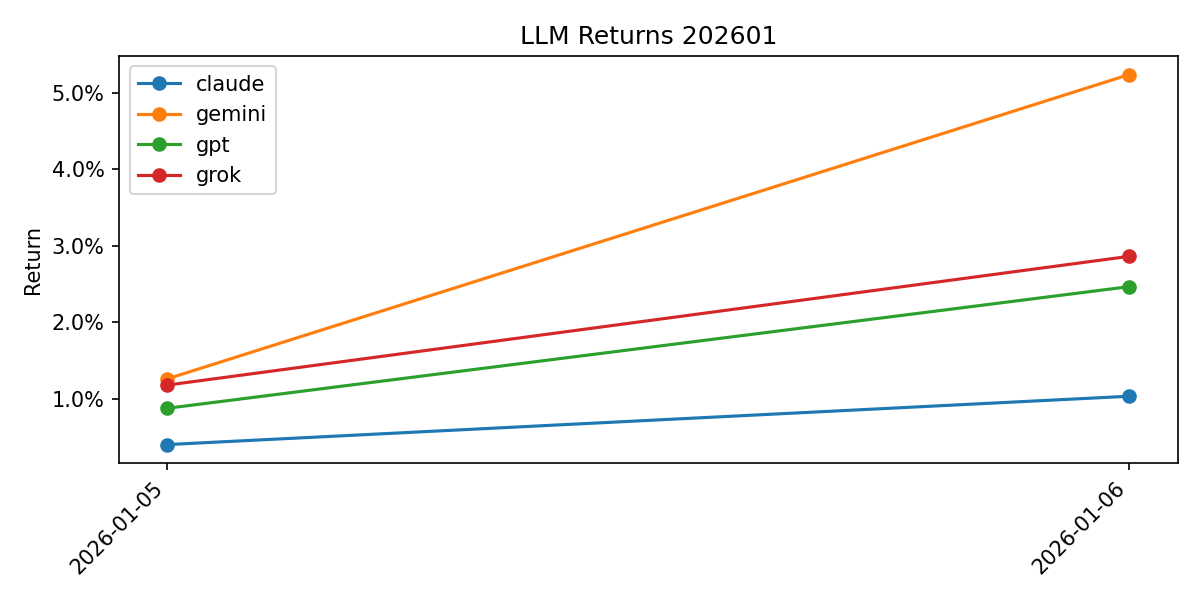
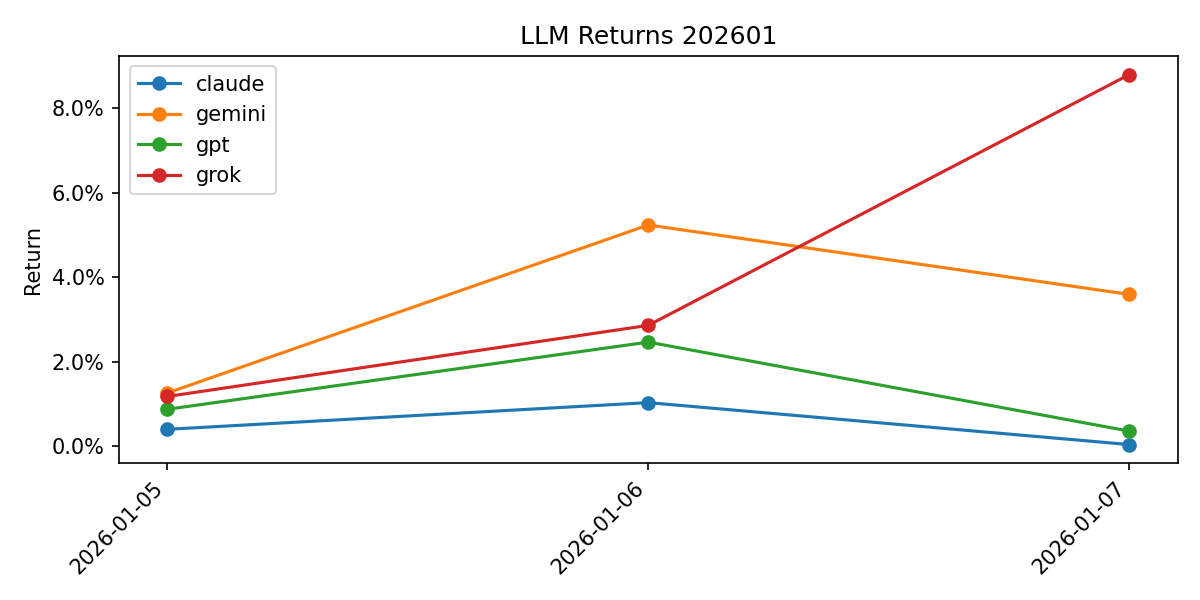
chore: add daily results 2026-01-07

diff --git a/data/result/result-2026-01-07.md b/data/result/result-2026-01-07.md
@@ -1,0 +1,25 @@
+# Daily Result 2026-01-07
+
+## Models
+
+| LLM | Model |
+| --- | --- |
+| claude | claude-sonnet-4-5-20250929 |
+| gemini | gemini-3-pro-preview |
+| gpt | gpt-5.1 |
+| grok | grok-4-1-fast-reasoning |
+
+| LLM | Symbol | Buy(Open) | Close(today) | Return |
+| --- | --- | --- | --- | --- |
+| claude | 8316.T (SUMITOMO MITSUI FINANCIAL GROUP) | 5160.00 | 5212.00 | 1.01% |
+|  | 6976.T (TAIYO YUDEN CO LTD) | 3660.00 | 3626.00 | -0.93% |
+|  | Avg |  |  | 0.04% |
+| gemini | 8473.T (SBI HOLDINGS INC) | 3410.00 | 3519.00 | 3.20% |
+|  | 8306.T (MITSUBISHI UFJ FINANCIAL GROUP) | 2518.50 | 2619.00 | 3.99% |
+|  | Avg |  |  | 3.59% |
+| gpt | 9984.T (SOFTBANK GROUP CORP) | 4520.00 | 4653.00 | 2.94% |
+|  | 7203.T (TOYOTA MOTOR CORP) | 3411.00 | 3335.00 | -2.23% |
+|  | Avg |  |  | 0.36% |
+| grok | 8035.T (TOKYO ELECTRON) | 36080.00 | 38170.00 | 5.79% |
+|  | 285A.T (KIOXIA HOLDINGS CORPORATION) | 11350.00 | 12690.00 | 11.81% |
+|  | Avg |  |  | 8.80% |

diff --git a/reports/202601/summary.md b/reports/202601/summary.md
@@ -13,6 +13,7 @@
 | --- | --- | --- | --- | --- |
 | 2026-01-05 | 0.40% | 1.26% | 0.87% | 1.18% |
 | 2026-01-06 | 1.03% | 5.24% | 2.47% | 2.86% |
+| 2026-01-07 | 0.04% | 3.59% | 0.36% | 8.80% |
 
 ![LLM monthly returns](summary.png)
 
